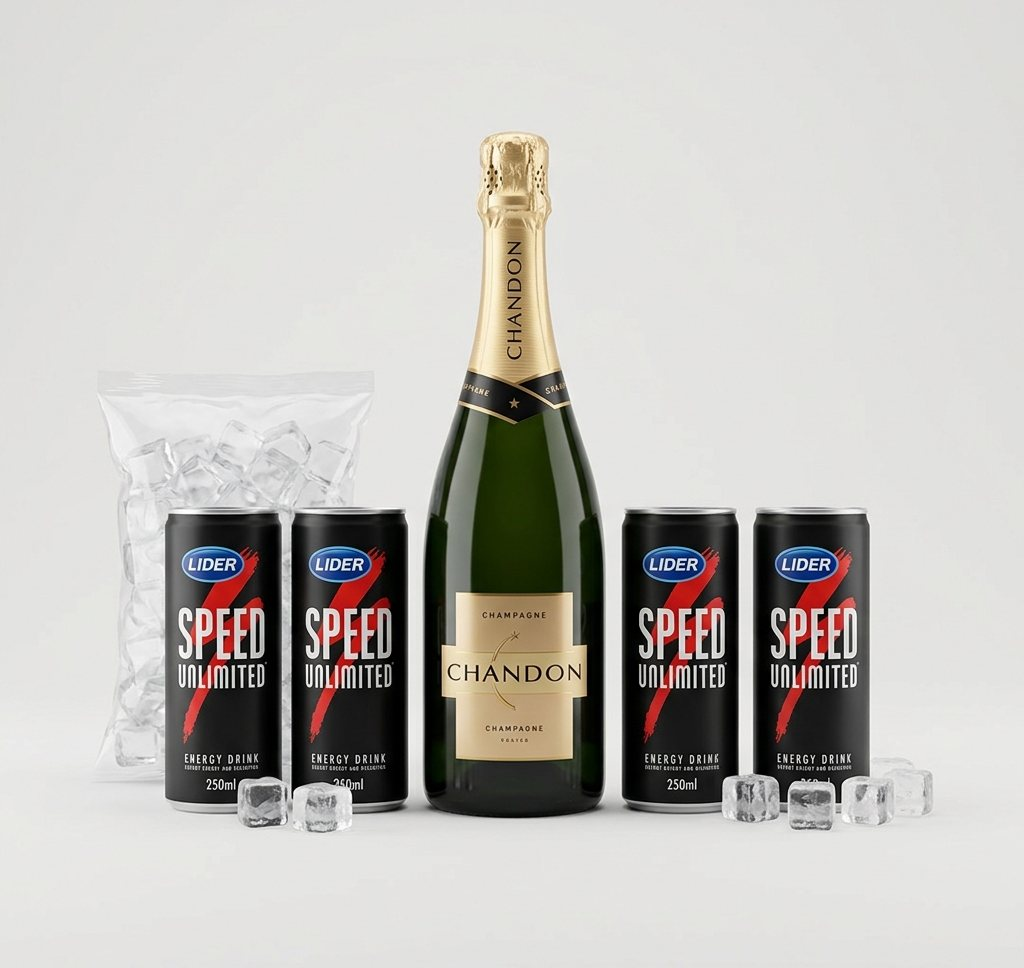
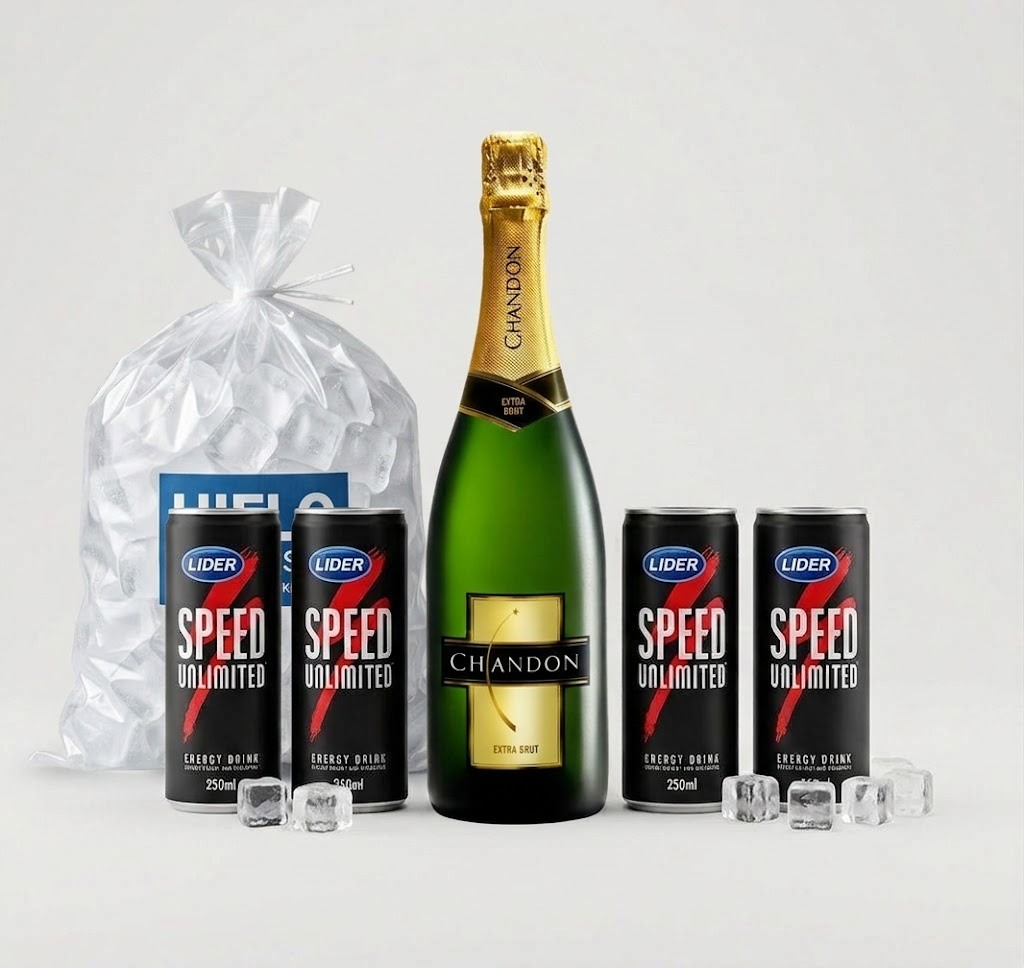
Corrige promos Chandon, Jagger y Gin Tonic (botellas y bolsa de hielo)
- Promo Chandoski -> renombrada a "Promo Chandon".
- Promo Jaggerboom -> renombrada a "Promo Jagger".
- Se regeneraron las 3 fotos usando fotos reales de cada botella como
  referencia:
  - Chandon: vidrio verde oscuro y foil dorado con CHANDON (antes
    tenia un diseno generico que no coincidia con la botella real).
  - Jagermeister: etiqueta con el ciervo, la cruz y el texto
    "Jagermeister" legible (antes tenia texto de etiqueta inventado
    e ilegible).
  - Merle: etiqueta rosa con MERLE / BOTANICALS / CONTEMPORARY DRY
    GIN (antes tenia una etiqueta blanca generica que no correspondia
    al gin real).
- Se unifico la bolsa de hielo (etiqueta azul "HIELO CUBOS") en las
  3 fotos para que coincida con el resto del catalogo.

diff --git a/index.html b/index.html
@@ -562,8 +562,8 @@ const prods=[
 {id:"pr9",cat:"promos",n:"Promo Red Label 750",d:"Red Label 750 + 4 Speed 250ml",p:42500,pe:51000,tag:"promo",img:"images/productos/pr9-promo-red-label-750.jpg"},
 {id:"pr10",cat:"promos",n:"Promo Red Label 1lt",d:"Red Label 1lt + 4 Speed 250ml",p:51000,pe:61200,tag:"promo",img:"images/productos/pr10-promo-red-label-1lt.jpg"},
 {id:"pr11",cat:"promos",n:"Promo Spritz",d:"Aperol + Chandon + hielo + jugo 1lt + tonica Schweppes 2lt",p:38000,pe:45600,tag:"promo",img:"images/productos/pr11-promo-spritz.jpg"},
-{id:"pr12",cat:"promos",n:"Promo Chandoski",d:"Chandon + 4 Speed 250ml + hielo",p:27000,pe:32400,tag:"promo",img:"images/productos/pr12-promo-chandoski.jpg"},
-{id:"pr13",cat:"promos",n:"Promo Jaggerboom",d:"Jagermeister + 4 Monster + hielo",p:56500,pe:67800,tag:"promo",img:"images/productos/pr13-promo-jaggerboom.jpg"},
+{id:"pr12",cat:"promos",n:"Promo Chandon",d:"Chandon + 4 Speed 250ml + hielo",p:27000,pe:32400,tag:"promo",img:"images/productos/pr12-promo-chandoski.jpg"},
+{id:"pr13",cat:"promos",n:"Promo Jagger",d:"Jagermeister + 4 Monster + hielo",p:56500,pe:67800,tag:"promo",img:"images/productos/pr13-promo-jaggerboom.jpg"},
 {id:"pr14",cat:"promos",n:"Promo Gin Tonic",d:"Merle + 2 tonicas Schweppes 2lt + hielo",p:21000,pe:25200,tag:"promo",img:"images/productos/pr14-promo-gin-tonic.jpg"},
 {id:"pr15",cat:"promos",n:"Promo Malibu",d:"Malibu + 1 Coca 2lt o 2 jugos 1lt",p:20500,pe:24600,tag:"promo",img:"images/productos/pr15-promo-malibu.jpg"},
 // CERVEZAS
